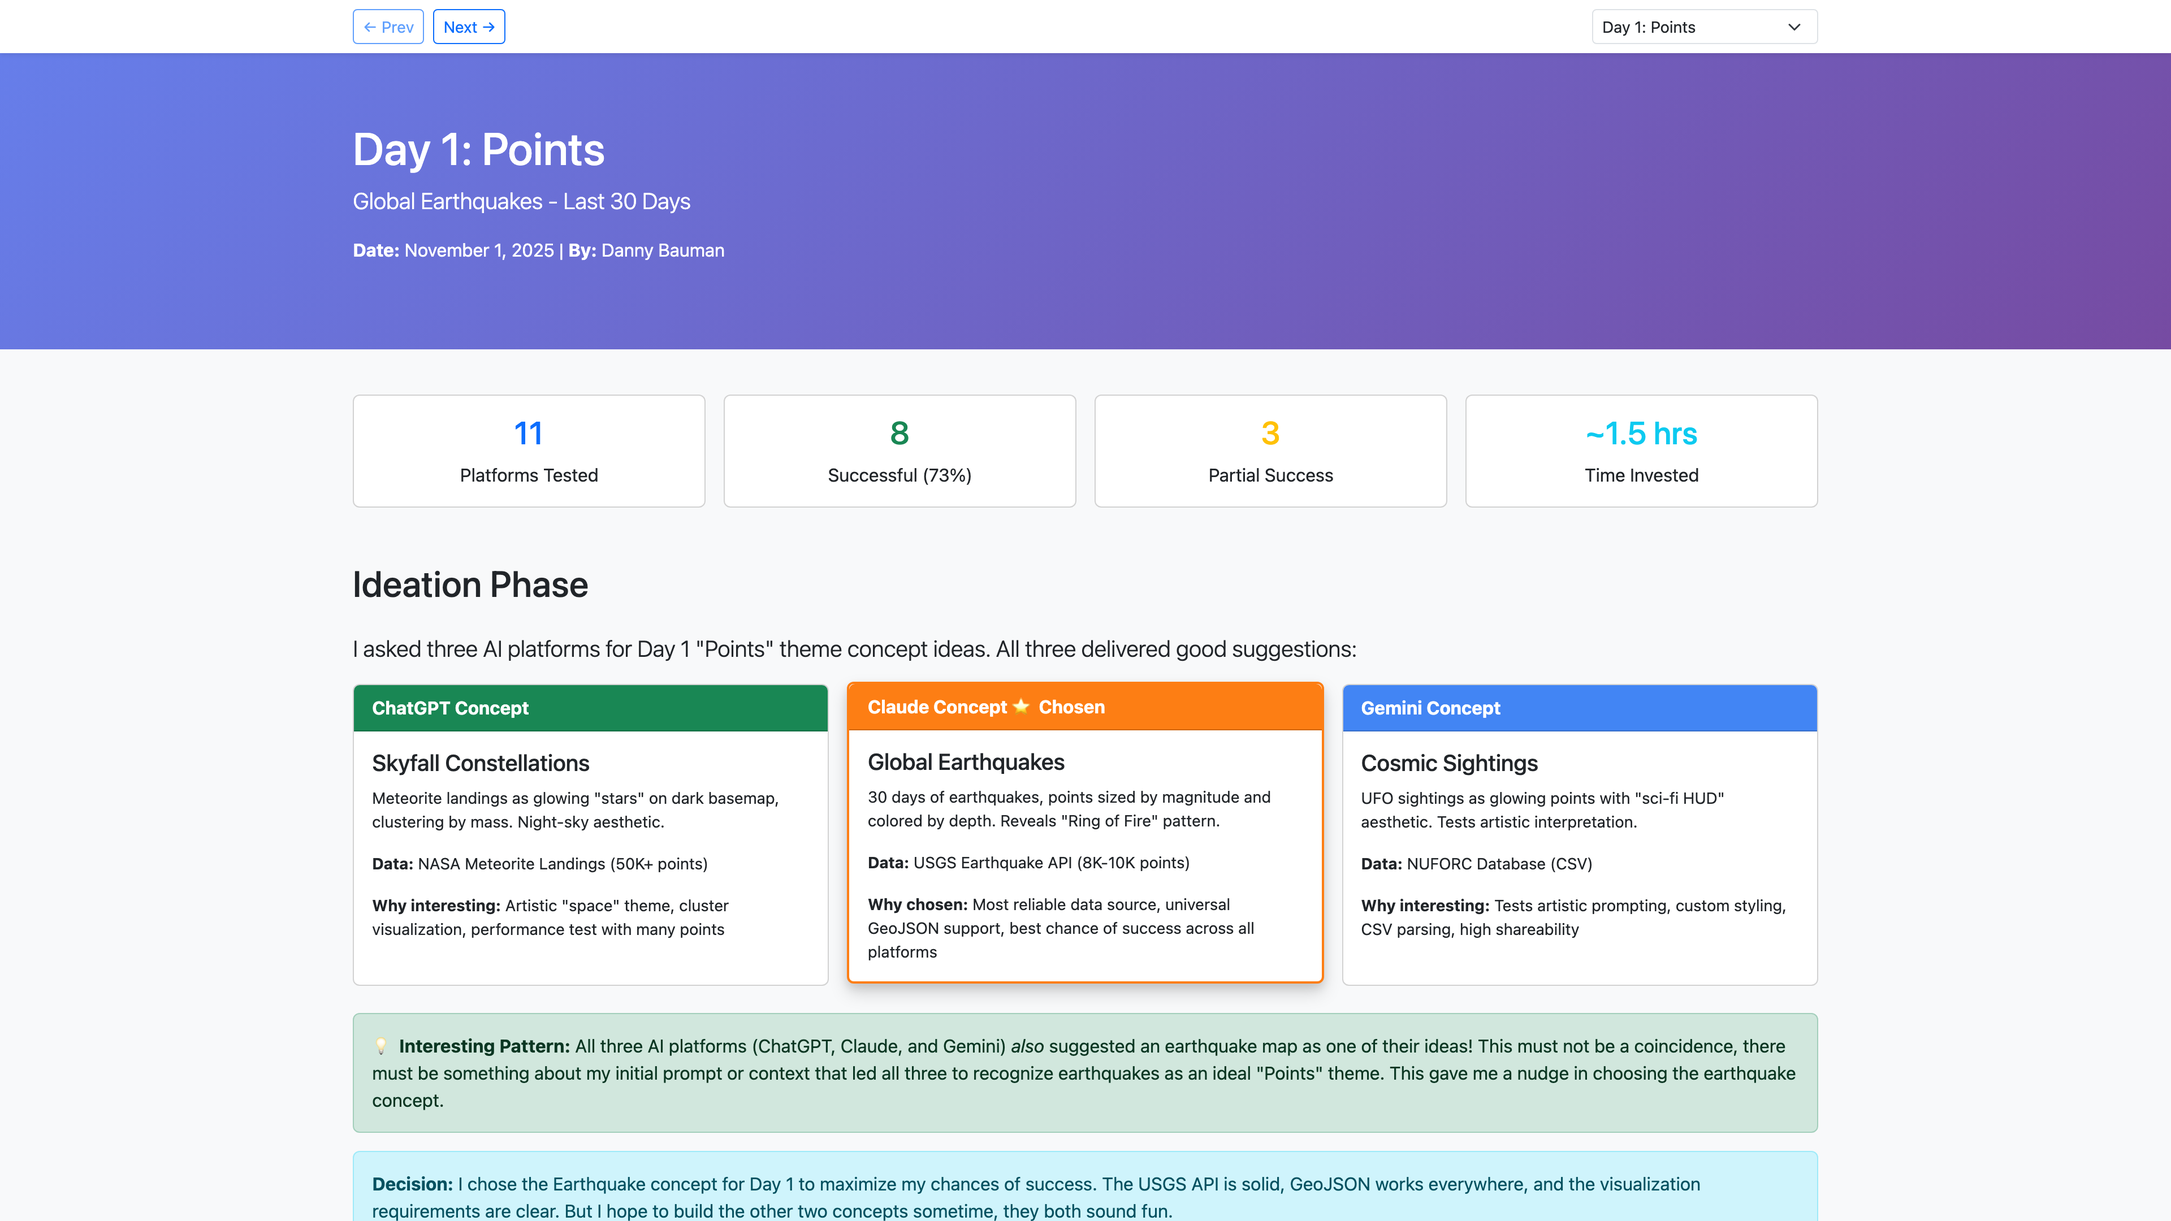
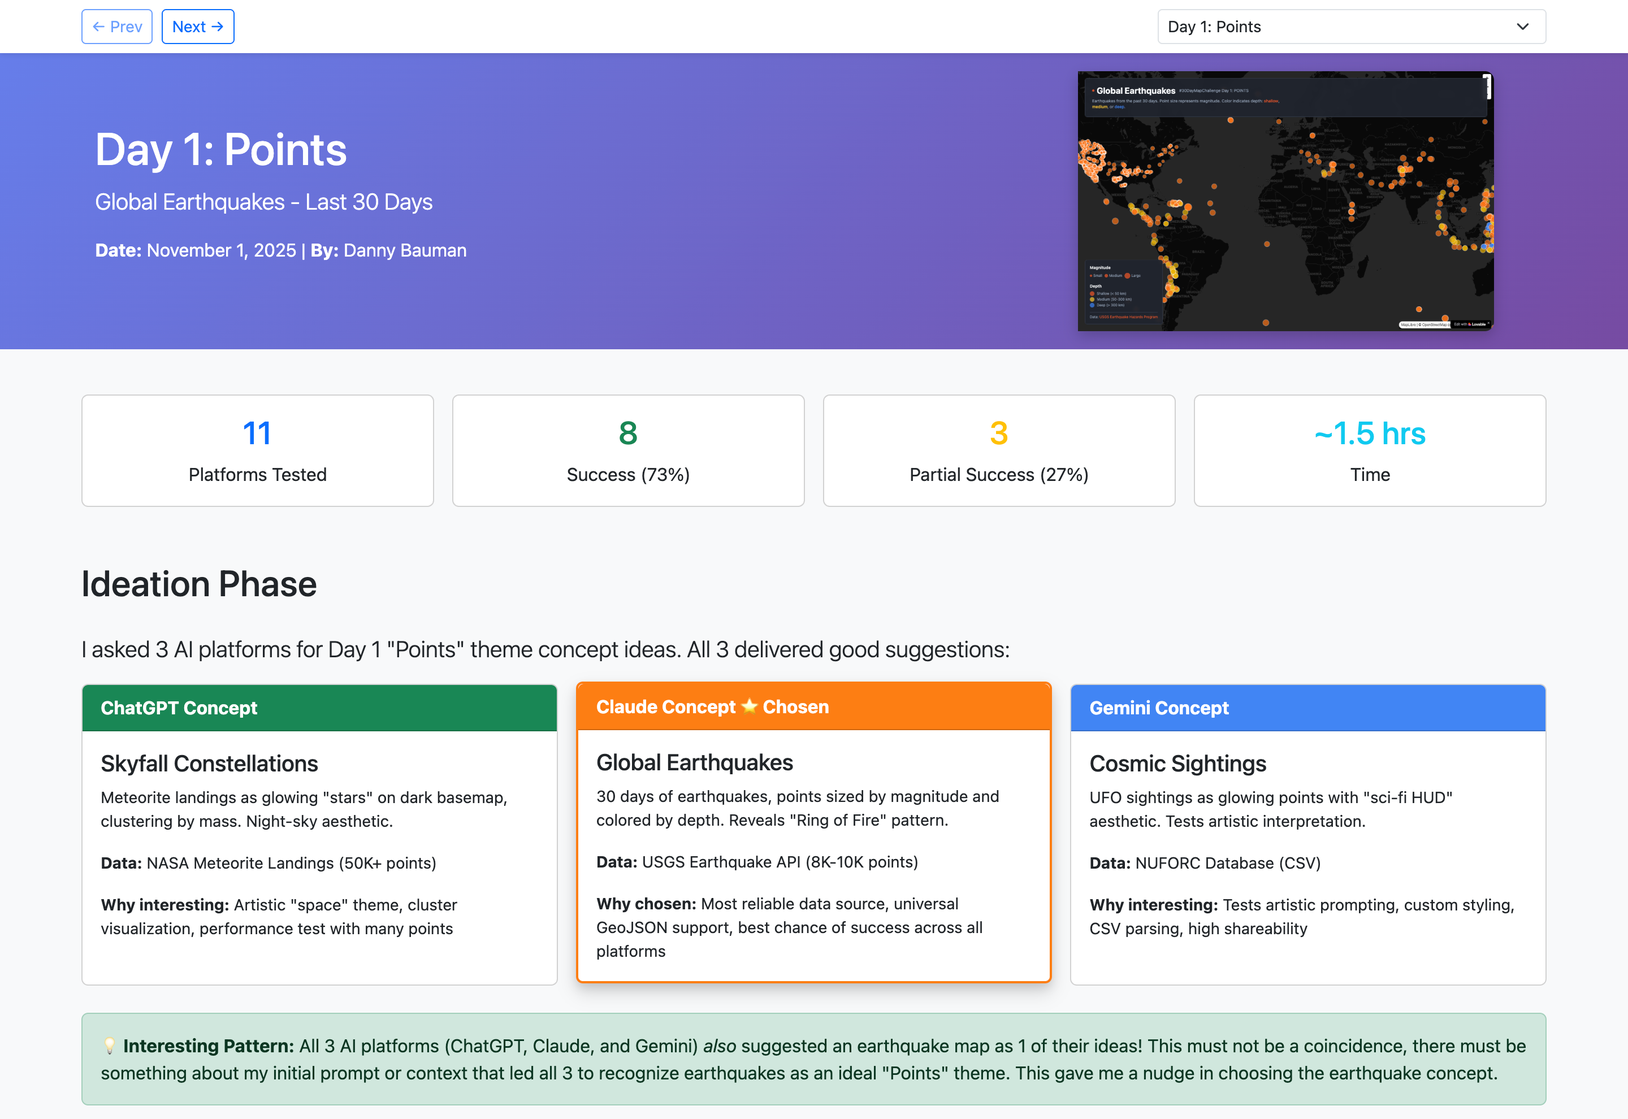
Update README to reflect completed challenge
- Acknowledge challenge is over (past tense throughout)
- Note completion of ~10 days instead of all 30
- Add Google AntiGravity IDE to tools list
- Remove unused tools (BMAD, Google Sketch, Google Spark, Windsurf)
- Update repository structure to show Nunjucks template system
- Fix grading criteria (move C to Partial Success, clarify F)
- Replace [your-username] with dannybauman
- Update error fixing language (not always 3 tries)
- Add placeholder for future data sources compilation
- Update screenshots

diff --git a/README.md b/README.md
@@ -8,11 +8,11 @@ Live site: [https://dannybauman.github.io/30-day-map-challenge-2025/](https://da
 
 ## Project Overview
 
-For the **[#30DayMapChallenge](https://30daymapchallenge.com/)**, I wanted to use AI as both creative partner and primary developer. 30 unique map themes, one per day, and my project explores how top AI models and a variety of AI-first development platforms can quickly ideate and bulid map ideas into prototypes. And to see a Nov 2025 snapshot of how good these AI tools are for something like this.
+For the **[#30DayMapChallenge](https://30daymapchallenge.com/)**, I wanted to use AI as both creative partner and primary developer. The challenge features 30 unique map themes, one per day, and my project explored how top AI models and a variety of AI development platforms could quickly ideate and build map ideas into prototypes. I completed about 10 of the 30 days - I had hoped to do more, but these projects took longer than expected and life got busy. Still, I learned a lot and feel like I could go back and do others more smoothly now with what I've learned. This project provides a November 2025 snapshot of how good these AI tools are for something like this.
 
 **Idea**: Prompt across AI platforms, let them work in parallel, use AI to help journal and report everything.
 
-I'm approaching this with the 30 Day Map Challenge [code of conduct](https://30daymapchallenge.com/#code-of-conduct) in mind: I'm publishing only my own work, sharing clear data sources, and using AI to evaluate which tools genuinely help human mapmakers instead of letting them replace the creative joy of mapmaking. Huge respect and gratitude to the artists, cartographers, designers, software engineers, storytellers, and everyone else crafting maps without AI - your craft sets the bar and keeps this community grounded in the social and environmental realities that careless AI use can ignore. My goal is to document the good, discard the noise, and feed those lessons back into workflows that stay useful for people.
+I approached this with the 30 Day Map Challenge [code of conduct](https://30daymapchallenge.com/#code-of-conduct) in mind: I published only my own work, shared clear data sources, and used AI to evaluate which tools genuinely help human mapmakers instead of letting them replace the creative joy of mapmaking. Huge respect and gratitude to the artists, cartographers, designers, software engineers, storytellers, and everyone else crafting maps without AI - your craft sets the bar and keeps this community grounded in the social and environmental realities that careless AI use can ignore. My goal was to document the good, discard the noise, and feed those lessons back into workflows that stay useful for people.
 
 ---
 
@@ -20,45 +20,45 @@ I'm approaching this with the 30 Day Map Challenge [code of conduct](https://30d
 
 ### The Multi-Platform Approach
 
-Instead of building 1 map per day, my hope is to easily build like 10-20! I'll use multiple AI models to help come up with ideas, then choose 1-2 to run through a bunch of AI development platforms simultaneously. This way it'll show a comparison on how different tools handle the same geospatial prototyping task.
+Instead of building 1 map per day, my goal was to easily build like 10-20! I used multiple AI models to help come up with ideas, then chose 1-2 to run through a bunch of AI development platforms simultaneously. This showed a comparison of how different tools handle the same geospatial prototyping task.
 
 ### To Vibe Code or Not To Vibe Code
-For this I'll mostly be vibe coding with minimal care for code quality or longevity, which is NOT right for most projects. I'm treating this as a rapid prototyping lab to watch how well AI-assisted development performs in between the human craft steps.
+For this I mostly used vibe coding with minimal care for code quality or longevity, which is NOT right for most projects. I treated this as a rapid prototyping lab to watch how well AI-assisted development performs in between the human craft steps.
 
-My earlier code of conduct note is my guardrail: I only publish work I personally guide, I cite every dataset and call out each AI-assisted contribution, and I talk about when AI shortcuts cost more than they save. Documenting those wins and misses should make it easier for anyone to decide what tools deserve their time.
+My code of conduct note was my guardrail: I only published work I personally guided, I cited every dataset and called out each AI-assisted contribution, and I talked about when AI shortcuts cost more than they saved. Documenting those wins and misses should make it easier for anyone to decide what tools deserve their time.
 
-Vibe coding is just one way to use AI to help write software. People are inventing new workflows daily, from exploratory prototypes to deep, targeted engineering. My goal here is to surface the useful patterns, flag the dead ends, and keep the focus on the human creativity that makes the challenge magical.
+Vibe coding is just one way to use AI to help write software. People are inventing new workflows daily, from exploratory prototypes to deep, targeted engineering. My goal here was to surface the useful patterns, flag the dead ends, and keep the focus on the human creativity that makes the challenge magical.
 
 ### The Workflow
 
 **Phase 1: Ideation & Concept Selection**
-- Use the SAME ideation prompt for all 3 platforms (ensures fair comparison)
-- Prompt ChatGPT, Claude, and Gemini models with the identical daily theme prompt
-- Paste back full outputs from all 3 platforms into Cursor
-- Cursor logs all ideas and helps analyze/choose the best concept
-- If iteration needed: Document Round 1, human feedback, Round 2 (preserves progression)
-- Draft one implementation prompt based on chosen concept
-- Add any theme-specific data requirements
+- Used the SAME ideation prompt for all 3 platforms (ensured fair comparison)
+- Prompted ChatGPT, Claude, and Gemini models with the identical daily theme prompt
+- Pasted back full outputs from all 3 platforms into Cursor
+- Cursor logged all ideas and helped analyze/choose the best concept
+- If iteration needed: Documented Round 1, human feedback, Round 2 (preserved progression)
+- Drafted one implementation prompt based on chosen concept
+- Added any theme-specific data requirements
 
 **Phase 2: Parallel Platform Launch**
-- Open 5-15 AI development platforms in browser tabs (ChatGPT, Claude, Gemini, v0, bolt, lovable, etc.)
-- Copy/paste same prompt to each platform
+- Opened 5-15 AI development platforms in browser tabs (ChatGPT, Claude, Gemini, v0, bolt, lovable, etc.)
+- Copied/pasted same prompt to each platform
 - Hit GO on all of them simultaneously
-- Let them work in parallel, see how it goes
+- Let them work in parallel, saw how it went
 
 **Phase 3: Review & Iteration**
-- Check as they generate results
-- Fix errors up with up to 3 tries max
+- Checked as they generated results
+- Fixed errors as needed (sometimes more, sometimes less attempts)
 - Screenshot all attempts, working or not
-- Deploy code if possible for sharing
-- Optional: Iterate on promising implementations
+- Deployed code if possible for sharing
+- Optional: Iterated on promising implementations
 
 **Phase 4: Documentation & Analysis**
-- Create day folder with subfolders for each platform
-- Document what worked/failed per platform
-- Note patterns, strengths, and failure modes
-- Commit everything with platform comparison notes
-- Create a visual HTML report for each day to share the results and my thoughts
+- Created day folder with subfolders for each platform
+- Documented what worked/failed per platform
+- Noted patterns, strengths, and failure modes
+- Committed everything with platform comparison notes
+- Created a visual HTML report for each day to share the results and my thoughts
 
 ### Why This Approach?
 
@@ -81,7 +81,7 @@ Vibe coding is just one way to use AI to help write software. People are inventi
 - **OpenAI GPT-5.1 Thinking**
 - **Google Gemini 3 Pro**
 
-_Note_: These are the current picks because newer versions landed mid-challenge. We adapt to the latest stable options as the 30 days progress to keep comparisons current.
+_Note_: These were the picks because newer versions landed mid-challenge. I adapted to the latest stable options as the challenge progressed to keep comparisons current.
 
 ### Implementation Platforms (Use 5-15 Daily)
 
@@ -97,15 +97,12 @@ _Note_: These are the current picks because newer versions landed mid-challenge.
 **Tier 2 - Full-Stack & Advanced**
 - **Lovable** - Full apps with multiple pages
 - **Cursor** - AI-assisted IDE, new features added frequently
-- **Windsurf** - Agentic coding, good for complex builds
+- **Google AntiGravity IDE** - Google's new AI-powered IDE (launched during the challenge), downloadable Mac app, works outside browser, good for larger projects with more control
 
 **Tier 3 - Specialized Tools**
 - **MagicPatterns** - Tuned well for well-designed prototypes, component libraries, UI systems
-- **GitHub Spark** - Quick demos with GitHub integration
 - **Firebase Studio** - Part of a nice big Firebase ecosystem of dev tools
-- **Google Sketch** - Quick mockups before coding
 - **Base 44** - New to me, heard it's good
-- **BMAD Method** - Workflow-based approach
 
 ---
 
@@ -119,33 +116,42 @@ _Note_: These are the current picks because newer versions landed mid-challenge.
 ├── THEMES.md                          # All 30 themes + my notes
 ├── PLATFORM-TRACKER.md                # Which platforms succeeded per theme
 │
+├── src/
+│   └── pages/                         # Nunjucks templates for each day
+│       ├── 01-points.njk
+│       ├── 02-lines.njk
+│       └── ... (completed days)
+│
 ├── templates/
+│   ├── layouts/
+│   │   └── day.njk                    # Shared layout template
 │   ├── ideation-prompt.txt            # Unified prompt for all AI platforms
 │   ├── implementation-base.txt        # Core prompt template
-│   └── day-showcase-template.html     # HTML page template
+│   └── day-showcase-template.html     # Legacy HTML template (now using Nunjucks)
 │
-├── maps/
+├── maps/                              # Built pages (generated from src/pages/)
 │   ├── 01-points/
+│   │   ├── index.html                 # Generated from src/pages/01-points.njk
 │   │   ├── README.md                  # Overview + platform comparison
 │   │   ├── concept.md                 # The chosen idea(s)
 │   │   ├── claude-artifacts/
-│   │   │   ├── code.html
+│   │   │   ├── README.md
 │   │   │   └── screenshot.png
 │   │   ├── chatgpt-canvas/
-│   │   │   ├── code.html
+│   │   │   ├── README.md
 │   │   │   └── screenshot.png
 │   │   ├── bolt-new/
-│   │   │   ├── deployed-url.txt
+│   │   │   ├── README.md
 │   │   │   └── screenshot.png
 │   │   ├── v0-dev/
 │   │   ├── lovable/
 │   │   └── (other platforms)
 │   ├── 02-lines/
-│   └── ... (through 30)
+│   └── ... (completed days)
 │
 └── analysis/
     ├── platform-strengths.md          # Which excels at what
-    ├── failure-patterns.md            # Common issues per platform
+    ├── failure-patterns.md             # Common issues per platform
     ├── weekly-reflections.md          # Lessons learned
     └── final-comparison.md            # Month-end platform rankings
 ```
@@ -154,7 +160,7 @@ _Note_: These are the current picks because newer versions landed mid-challenge.
 
 ## HTML Pages for Each Day
 
-Each day includes a simple HTML page (`index.html`) for easy browsing and sharing:
+Each completed day includes an HTML page (`index.html`) for easy browsing and sharing. Pages are built using Nunjucks templates for modularity and consistency:
 
 **What's included:**
 - Quick stats and platform comparison
@@ -165,9 +171,9 @@ Each day includes a simple HTML page (`index.html`) for easy browsing and sharin
 - Key insights and lessons learned
 - Editorial thoughts
 
-**How to use:**
-- Template: `templates/day-showcase-template.html`
-- Simple to fill in - just HTML/Bootstrap
+**How it works:**
+- Source templates: `src/pages/<day-slug>.njk` (uses shared layout from `templates/layouts/day.njk`)
+- Built pages: `maps/<day-slug>/index.html` (generated via `npm run build:pages`)
 - Makes results easy to browse and share on social media
 
 **View Day 1**: [https://dannybauman.github.io/30-day-map-challenge-2025/maps/01-points/index.html](https://dannybauman.github.io/30-day-map-challenge-2025/maps/01-points/index.html)
@@ -179,18 +185,18 @@ Each day includes a simple HTML page (`index.html`) for easy browsing and sharin
 ### Step-by-Step Process
 
 **Step 1: Ideation**
-- Use the SAME ideation prompt for Claude, ChatGPT, and Gemini (ensures fair comparison)
-- Ask each platform for 2 ideas for the current day's map theme
-- Paste back full outputs from all 3 platforms into Cursor
-- Cursor logs all ideas (including iterations if needed) and helps choose the best concept
+- Used the SAME ideation prompt for Claude, ChatGPT, and Gemini (ensured fair comparison)
+- Asked each platform for 2 ideas for the current day's map theme
+- Pasted back full outputs from all 3 platforms into Cursor
+- Cursor logged all ideas (including iterations if needed) and helped choose the best concept
 
 **Step 2: Prompt Preparation**
-- Open `implementation-base.txt` template
-- Customize with: theme, chosen concept, data source
-- Copy the prompt to clipboard
+- Opened `implementation-base.txt` template
+- Customized with: theme, chosen concept, data source
+- Copied the prompt to clipboard
 
 **Step 3: Parallel Platform Launch**
-Open in separate tabs:
+Opened in separate tabs:
 1. Claude Artifacts (⚠ struggles with external APIs, but close)
 2. Google Gemini Canvas (⚠ struggles with external APIs, but was close)
 3. ChatGPT Canvas
@@ -200,26 +206,26 @@ Open in separate tabs:
 7. Lovable
 8. Others...
 
-Paste prompt in each → Click generate → Move to next
+Pasted prompt in each → Clicked generate → Moved to next
 
 **Step 4: Active Monitoring & Iteration**
-- Check as they generate results
-- If one fails early, note what went wrong
-- Record any manual fixes (data cleaning, styling tweaks, bug patches) as you apply them
-- Screenshot everything as you go
+- Checked as they generated results
+- If one failed early, noted what went wrong
+- Recorded any manual fixes (data cleaning, styling tweaks, bug patches) as I applied them
+- Screenshot everything as I went
 
 **Step 5: Collection & Organization**
-- Deploy code if possible
-- Create platform subfolders
-- Save screenshots with consistent naming
-- Create quick list of what worked/failed
+- Deployed code if possible
+- Created platform subfolders
+- Saved screenshots with consistent naming
+- Created quick list of what worked/failed
 
 **Step 6: Documentation**
-- Create main README from template
-- Fill in platform results (names + status + insights)
-- Update DAILY-LOG.md
-- Capture a short “Human review” note that calls out what you verified or edited manually
-- Create `index.html` page for easy sharing
+- Created main README from template
+- Filled in platform results (names + status + insights)
+- Updated DAILY-LOG.md
+- Captured a short “Human review” note that called out what I verified or edited manually
+- Created `index.html` page for easy sharing
 
 ---
 
@@ -258,23 +264,24 @@ Paste prompt in each → Click generate → Move to next
 
 ## Grading Criteria
 
-**Success Grades (A, B, C) - Full Success:**
+**Success Grades (A, B) - Full Success:**
 - **A (Excellent)**: Fast, beautiful, fully functional, great mobile UX. Map renders correctly, all features work, responsive design is strong.
 - **B (Good)**: Works well, minor issues (e.g., tooltip contrast, legend style), responsive. Map is functional and usable.
-- **C (OK)**: Usable but significant issues (performance problems, UX issues like sluggish pan/zoom). Map works but has notable problems.
 
-**Partial Success (Grade D):**
-- Major functionality broken but some elements work. Examples:
+**Partial Success (Grades C, D):**
+- **C (OK)**: Usable but significant issues (performance problems, UX issues like sluggish pan/zoom). Map works but has notable problems.
+- **D (Major Issues)**: Major functionality broken but some elements work. Examples:
   - UI/legends generated but map doesn't load (CSP/CORS issues)
   - Data loads but visualization broken
   - Map loads but interaction doesn't work
-- **Key point**: Even CSP/CORS failures that generate UI/legends get Grade D (Partial Success), not F. If it generates something useful, it's at least D.
+- **Key point**: Even CSP/CORS failures that generate UI/legends get Partial Success (C or D), not F. If it generates something useful, it's at least Partial Success.
 
 **Failed (Grade F):**
-- No code generated at all (platform error, completely unusable - rare). Examples:
+- No meaningful output displayed (or very little). Examples:
   - Platform returns "internal error" and never generates code
   - Platform crashes before any output
-- **Key distinction**: Grade F is reserved for when no code/output is generated at all (platform infrastructure failures), not for code that doesn't work properly.
+  - Code generated but nothing displays (blank page, no map, no UI)
+- **Key distinction**: Grade F is reserved for when there's no meaningful visual output or functionality, not just for code that doesn't work perfectly.
 
 ---
 
@@ -296,13 +303,10 @@ Per the [official challenge](https://30daymapchallenge.com/):
 
 - **Official Challenge**: [30daymapchallenge.com](https://30daymapchallenge.com/)
 - **Hashtag**: #30DayMapChallenge
-- **Repository**: https://github.com/[your-username]/30-day-map-challenge-2025
+- **Repository**: https://github.com/dannybauman/30-day-map-challenge-2025
 
 ### Quick Data Sources
-- [OpenStreetMap](https://www.openstreetmap.org/) + [Overpass API](https://overpass-turbo.eu/)
-- [Natural Earth](https://www.naturalearthdata.com/)
-- [Overture Maps](https://overturemaps.org/)
-- [Free GIS Data](https://freegisdata.rtwilson.com/)
+_Note: A comprehensive list of all data sources used across the completed days will be compiled and linked here in the future._
 
 ---
 
@@ -310,13 +314,13 @@ Per the [official challenge](https://30daymapchallenge.com/):
 
 This is a comparative AI and usability research project within a mapping challenge:
 
-1. **Benchmark**: How well do 3 AI platforms come up with mapping ideas? How do 15+ AI development platforms handle identical geospatial tasks?
-2. **Document**: What patterns emerge in success/failure across tools?
-3. **Share**: Create open-source examples others can learn from
-4. **Learn**: Build intuition for which AI tools excel where
-5. **Contribute**: 100+ map examples to the mapping community
+1. **Benchmark**: How well did 3 AI platforms come up with mapping ideas? How did 15+ AI development platforms handle identical geospatial tasks?
+2. **Document**: What patterns emerged in success/failure across tools?
+3. **Share**: Created open-source examples others can learn from
+4. **Learn**: Built intuition for which AI tools excel where
+5. **Contribute**: Multiple map examples to the mapping community
 
-**The key insight**: Basically, it works! You can quickly ideate and prototype at a fairly high quality level with the help of AI. Each platform has strengths, weaknesses, and quirks, but most of these tools quickly helped me build something cool or interesting or a starting point for something useful.
+**The key insight**: Basically, it worked! I could quickly ideate and prototype at a fairly high quality level with the help of AI. Each platform has strengths, weaknesses, and quirks, but most of these tools quickly helped me build something cool or interesting or a starting point for something useful.
 
 ---
 
